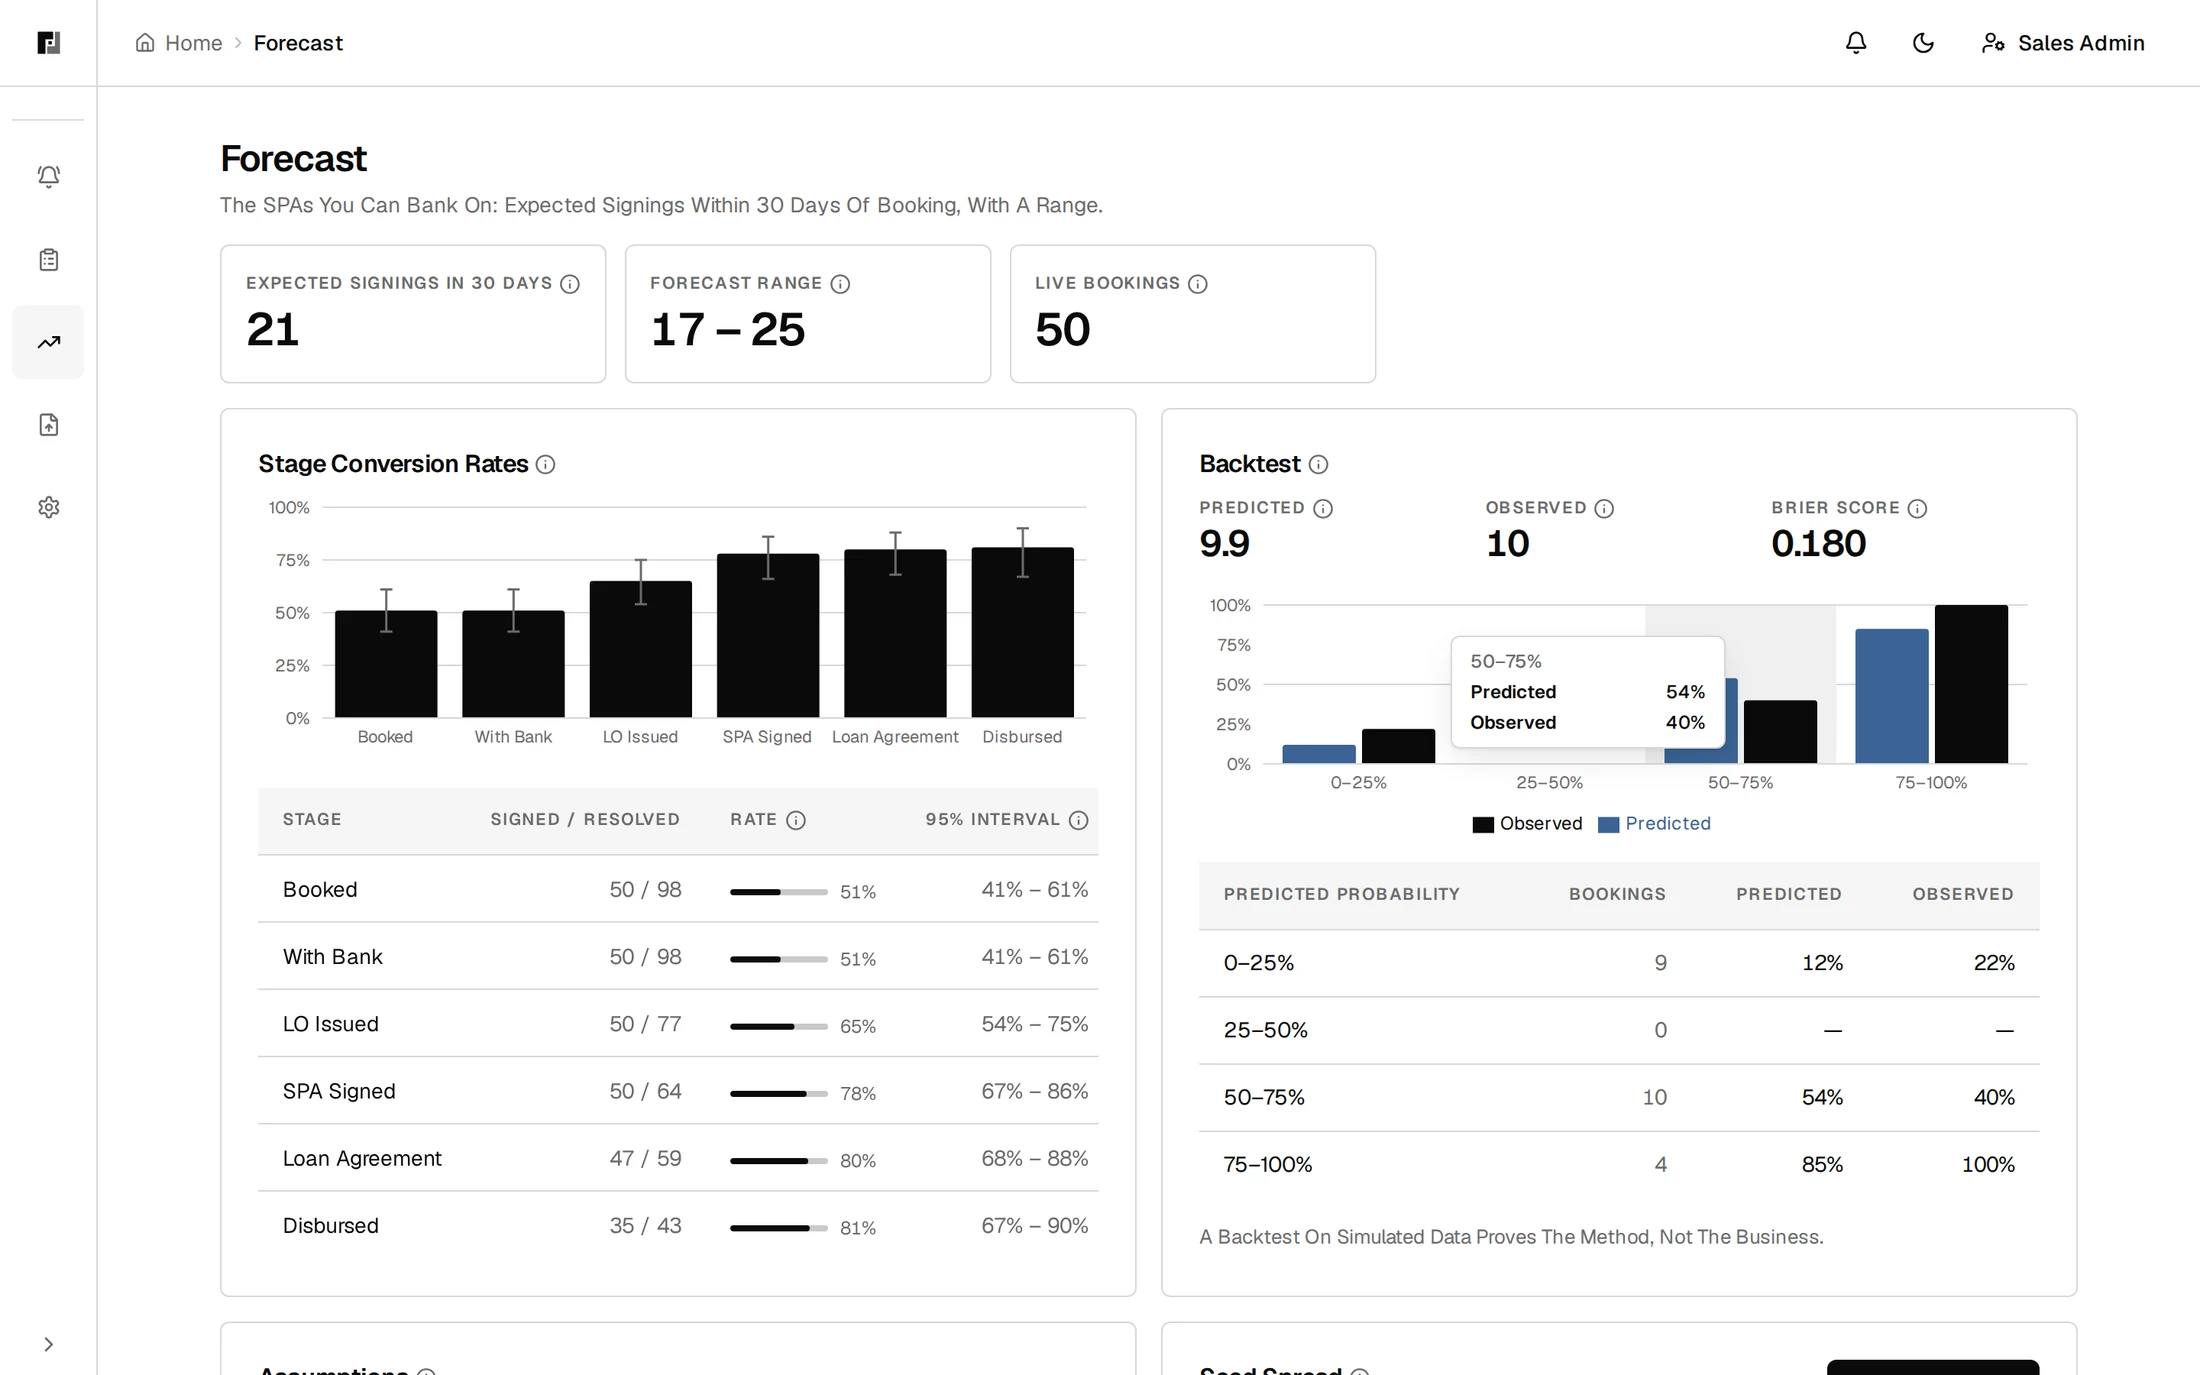
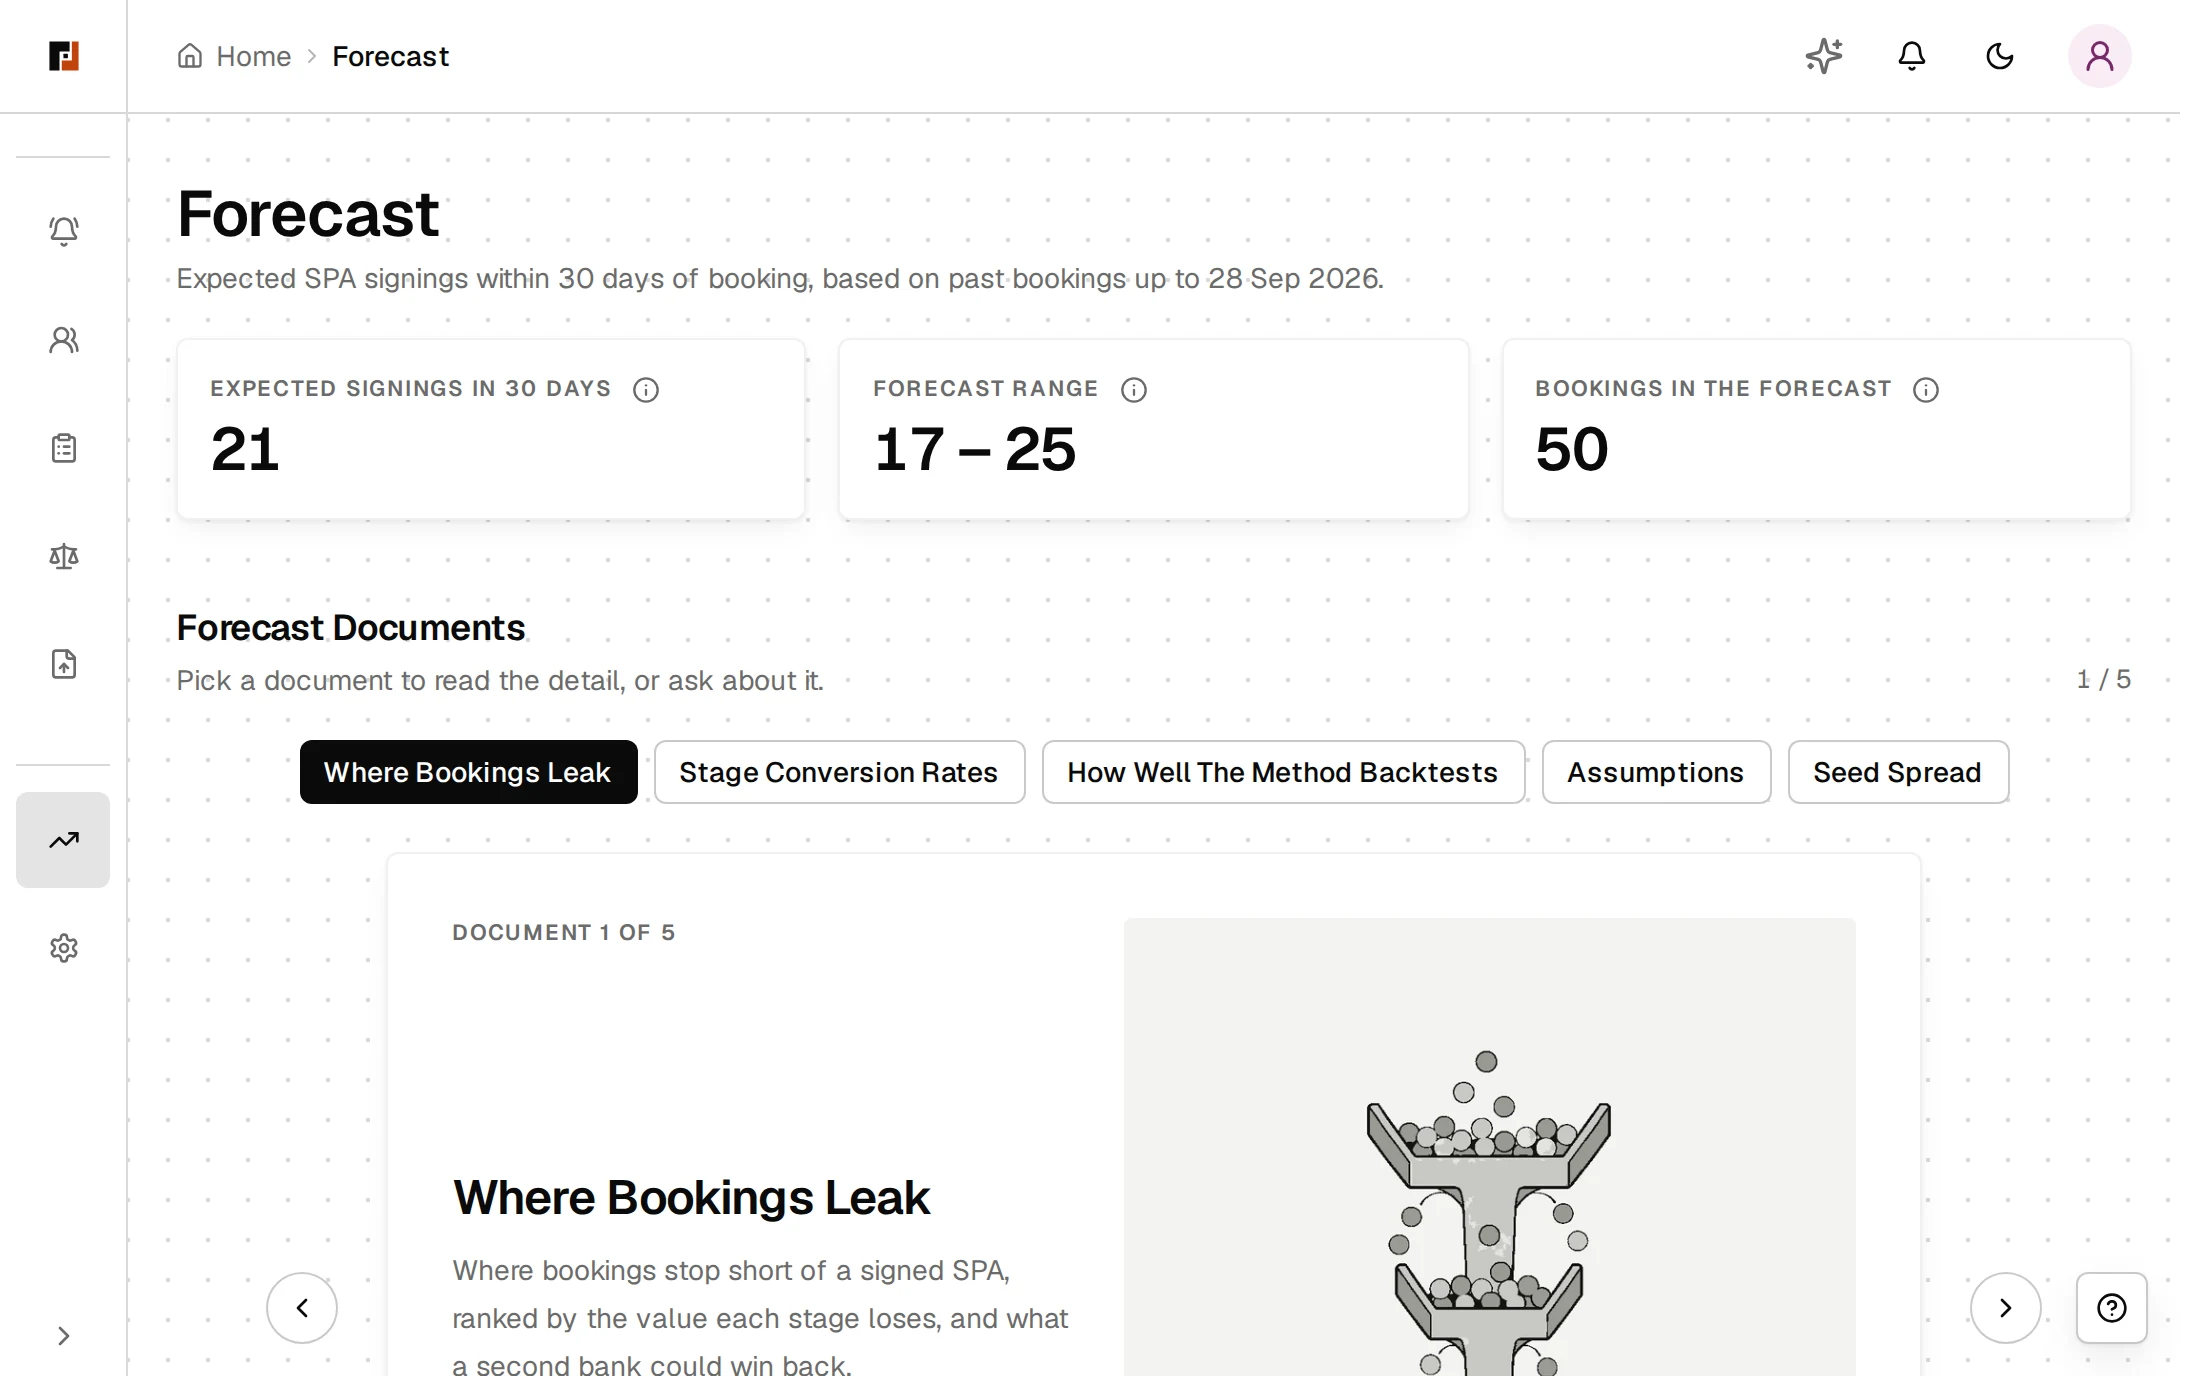
feat(landing): recapture the How It Works screenshots from the new screens
Refs #86

Claude-Session: https://claude.ai/code/session_017h48pattBF2tXyEm7GiAN2

diff --git a/frontend/src/components/landing/HowItWorks.tsx b/frontend/src/components/landing/HowItWorks.tsx
@@ -23,8 +23,8 @@ type Moment = {
 const MOMENTS: Moment[] = [
   {
     base: 'chasecard',
-    width: 1216,
-    height: 490,
+    width: 920,
+    height: 620,
     title: 'The Stall Is Named',
     body: 'Every morning the Today list holds the stalled bookings — the blocker in plain words, the financing risk, and Jev’s suggested next action with its owner. Nothing waits to be noticed.',
     alt: 'A stalled booking on Today: unit, buyer, blocker and the suggested next action.',
@@ -32,8 +32,8 @@ const MOMENTS: Moment[] = [
   },
   {
     base: 'message',
-    width: 1612,
-    height: 508,
+    width: 1596,
+    height: 444,
     title: 'A Message Becomes A Proposal',
     body: 'A banker’s message — English, Malay, Chinese or Manglish — is read by Jev into a typed proposal: the event, the document, the owner, with a probability and a confidence. Nothing moves the case until a person confirms it.',
     alt: "A banker's message on a booking's evidence log, with Jev's proposed reading beside it.",
@@ -41,21 +41,21 @@ const MOMENTS: Moment[] = [
   },
   {
     base: 'tasks',
-    width: 1824,
-    height: 462,
+    width: 1868,
+    height: 1210,
     title: 'The Task Has An Owner',
-    body: 'One click turns the suggestion into a task with an owner and a due date. The open tasks group by owner on the same desk, so who chases what is never ambiguous.',
-    alt: 'Open tasks on Today grouped by owner, each with its booking and due date.',
-    caption: 'Open tasks on Today, grouped by owner. Simulated data.'
+    body: 'One click turns the suggestion into a task with an owner and a due date. It lands in that person’s Your Tasks beside the queue, so who chases what is never ambiguous.',
+    alt: 'Your Tasks on Today: each open task with its booking, due date and owner.',
+    caption: 'Your Tasks on Today, every owner shown. Simulated data.'
   },
   {
     base: 'forecast',
     width: 2200,
-    height: 1375,
+    height: 1376,
     title: 'A Number Finance Can Sign Off',
     body: 'The forecast counts expected signings inside 30 days — each live booking weighted by how cases at its stage actually resolved, with the range, the sample sizes and the backtest in the open.',
-    alt: 'The Forecast desk: expected SPA signings within 30 days, the range, stage conversion and the backtest.',
-    caption: 'Expected signings within 30 days, with the backtest. Simulated data.'
+    alt: 'The Forecast desk: expected SPA signings within 30 days, the range, and the stack of forecast documents.',
+    caption: 'Expected signings within 30 days, with the detail as documents. Simulated data.'
   }
 ]
 
